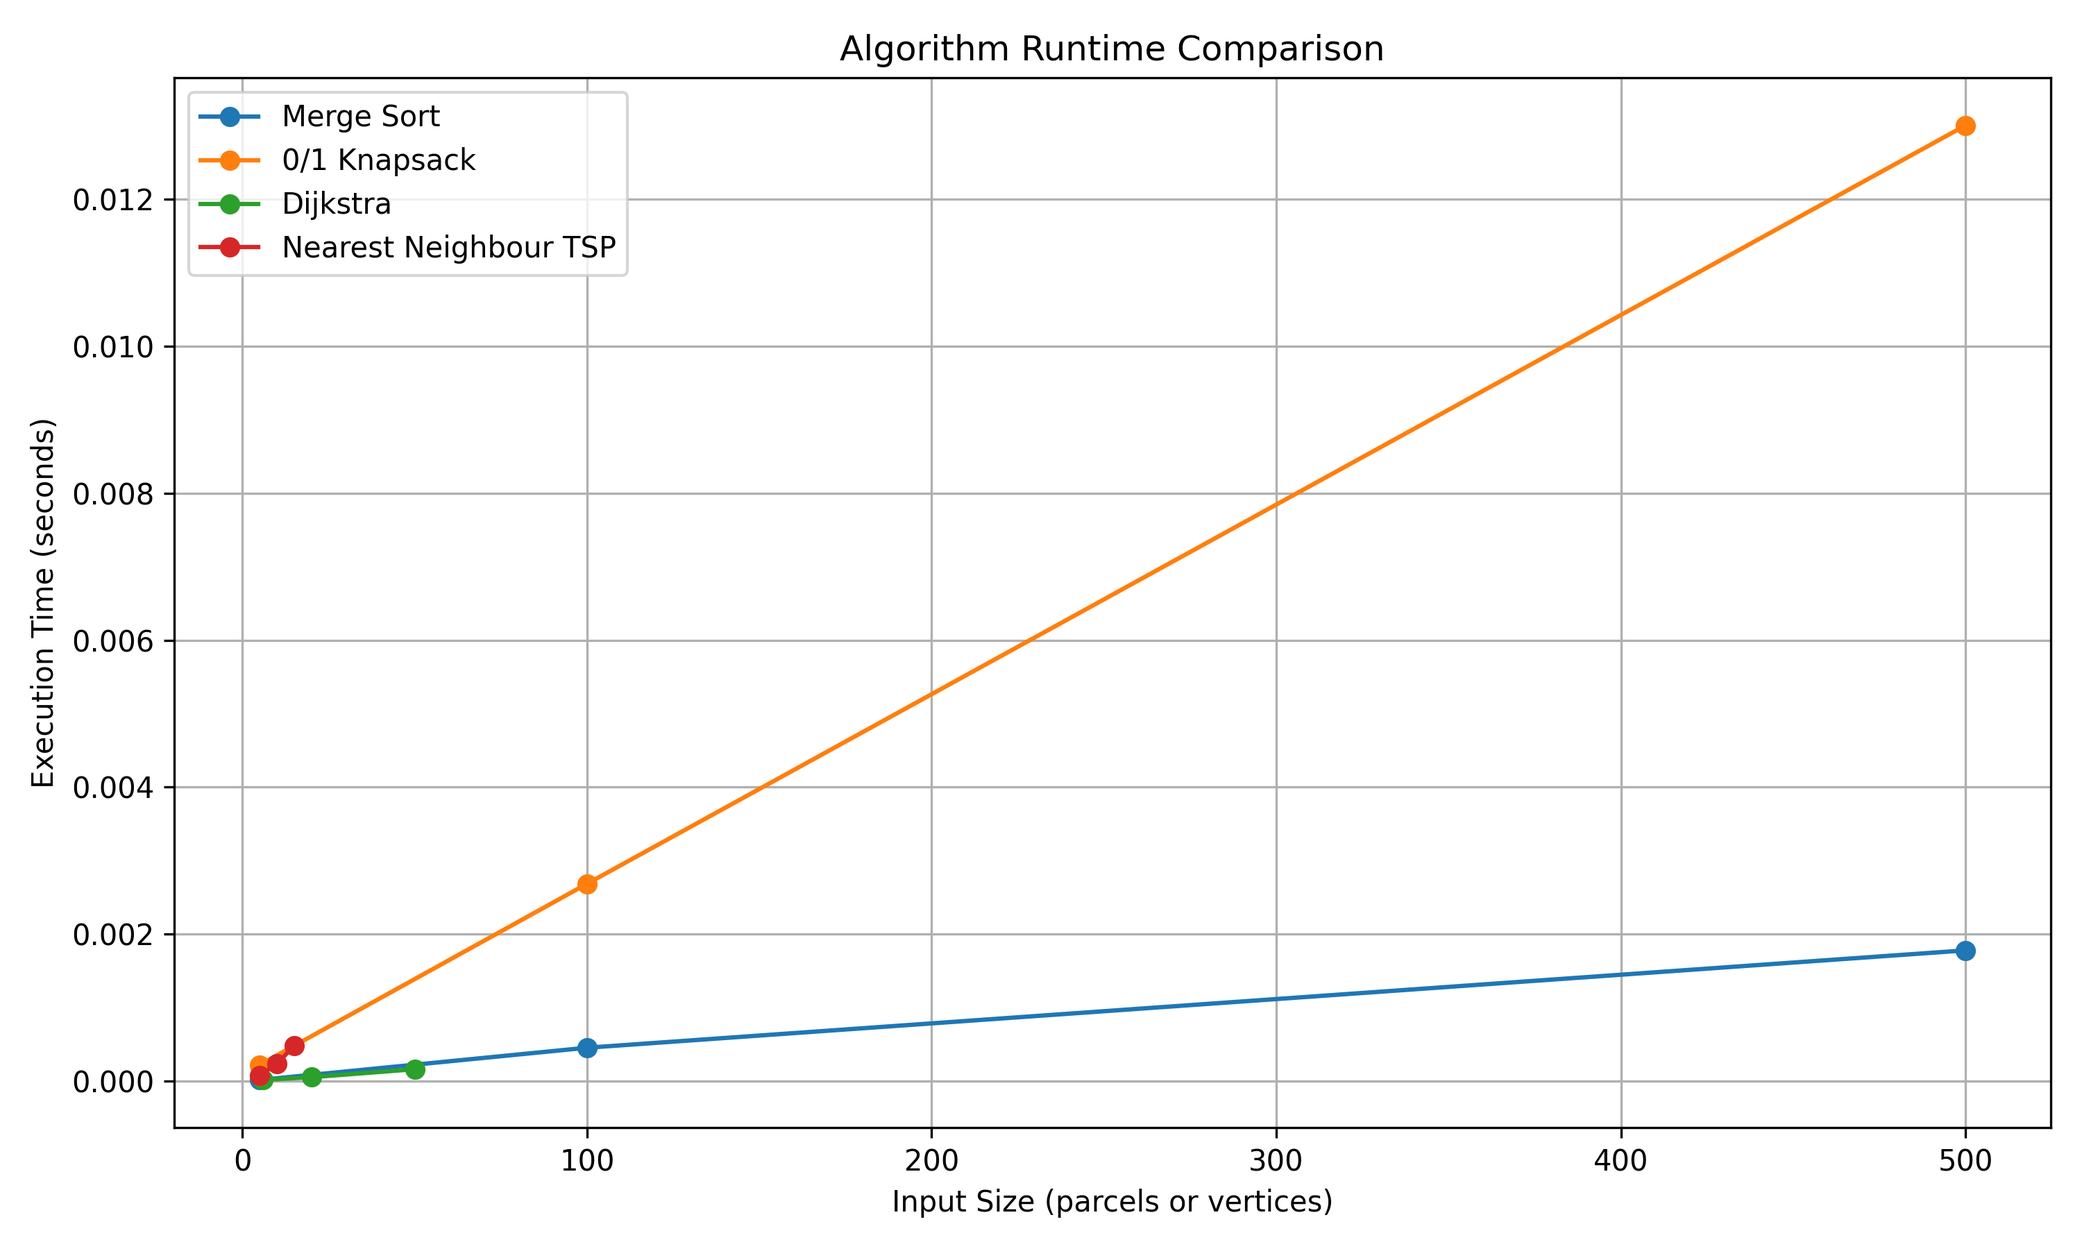
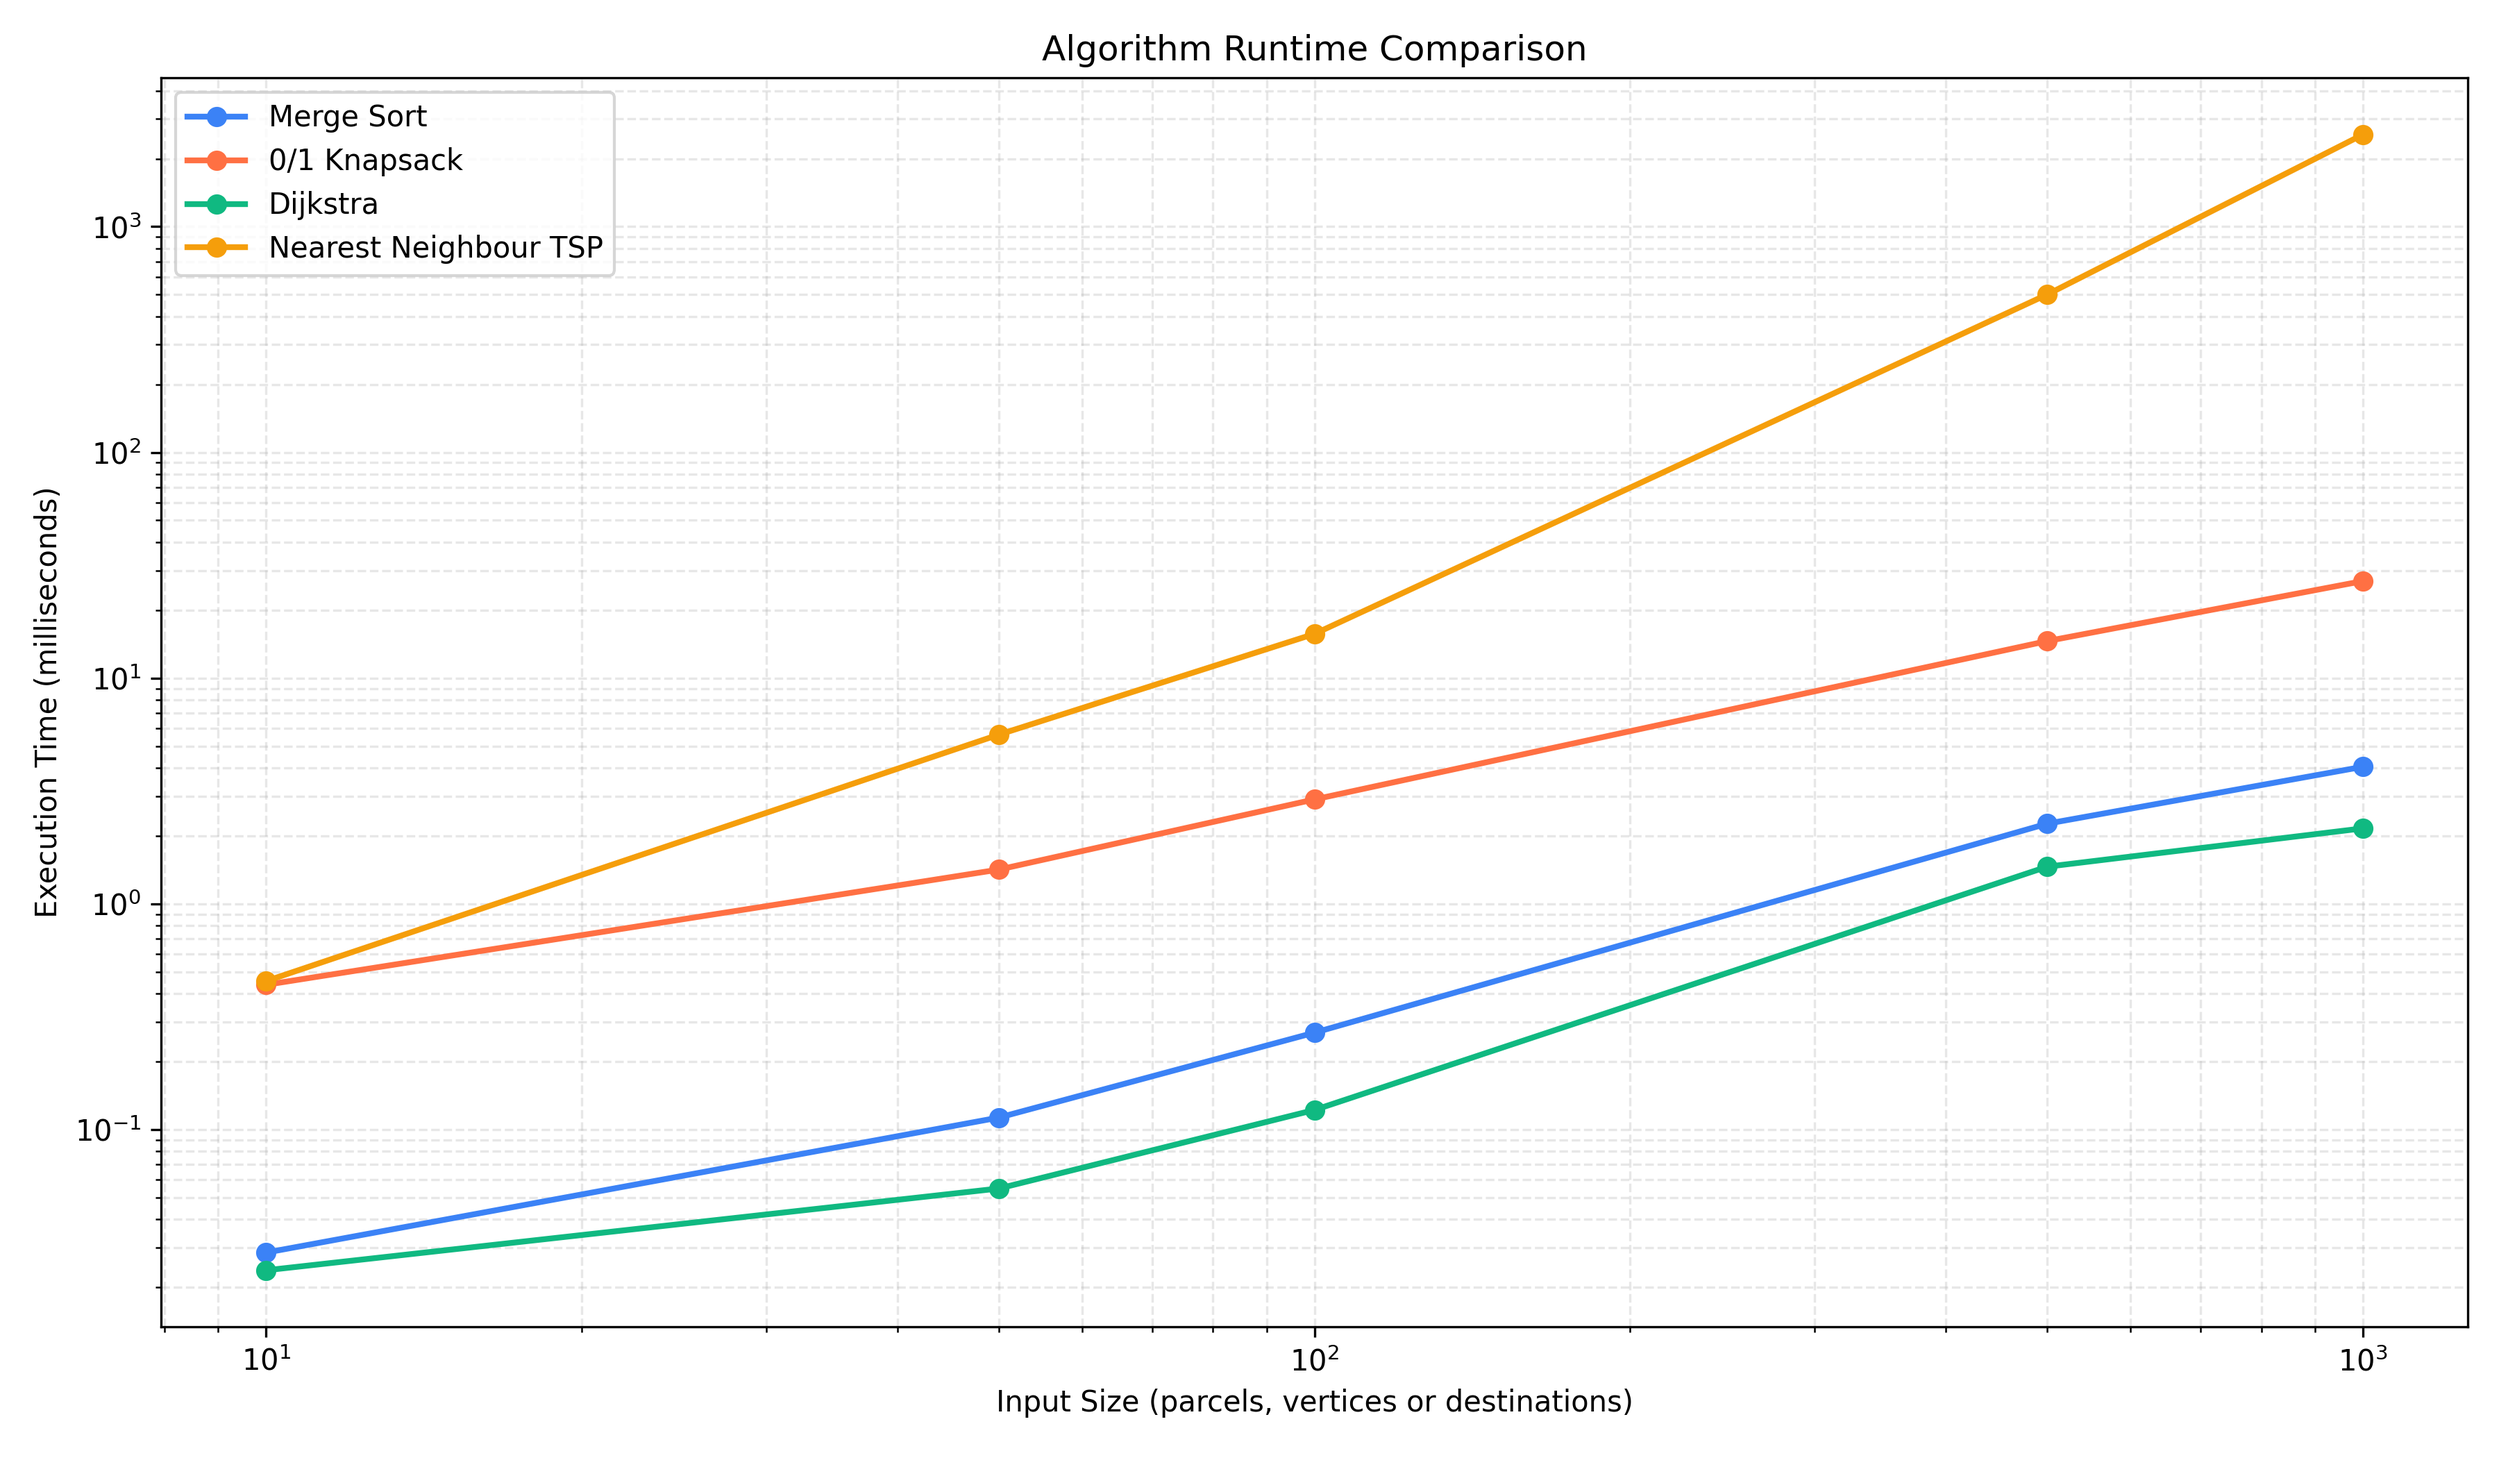
Improve algorithm performance benchmarking

diff --git a/performance.py b/performance.py
@@ -4,6 +4,7 @@ import random
 import time
 import statistics
 import json
+import shutil
 
 from pathlib import Path
 import matplotlib.pyplot as plt
@@ -19,53 +20,77 @@ BASE_DIR = Path(__file__).resolve().parent
 DATASET_DIR = BASE_DIR / "datasets"
 RESULTS_DIR = BASE_DIR / "results"
 
+DATASET_DIR.mkdir(exist_ok=True)
 RESULTS_DIR.mkdir(exist_ok=True)
 
-random.seed(42)
+
+# Benchmark configuration
+SIZES = [10, 50, 100, 500, 1000]
+REPEATS = 5
+SEED = 42
+KNAPSACK_CAPACITY = 100
 
 
-def generate_parcels(n):
+# Chart colours
+COLORS = {
+    "Merge Sort": "#3b82f6",
+    "0/1 Knapsack": "#ff7043",
+    "Dijkstra": "#10b981",
+    "Nearest Neighbour TSP": "#f59e0b"
+}
+
+
+def generate_parcels(n, rng):
+    """Generate reproducible parcel data."""
 
     parcels = []
 
     for i in range(n):
-        parcel = {
+        parcels.append({
             "parcel_id": f"P{i + 1}",
-            "destination": random.choice(["A", "B", "C", "D", "E"]),
-            "weight": random.randint(1, 10),
-            "priority": random.randint(1, 3),
-            "deadline": random.randint(1, 100),
-            "value": random.randint(10, 100)
-        }
-
-        parcels.append(parcel)
+            "destination": f"N{rng.randint(1, n)}",
+            "weight": rng.randint(1, 10),
+            "priority": rng.randint(1, 3),
+            "deadline": rng.randint(1, 100),
+            "value": rng.randint(10, 100)
+        })
 
     return parcels
 
 
+def generate_graph(n, rng):
+    """
+    Generate a connected, sparse, undirected graph.
 
-def generate_graph(n):
-    nodes = ["W"] + [f"N{i}" for i in range(1, n)]
+    W represents the warehouse.
+    N1...Nn represent delivery nodes.
+    Edge weights are illustrative.
+    """
+
+    nodes = ["W"] + [f"N{i}" for i in range(1, n + 1)]
 
     graph = {node: {} for node in nodes}
 
+    # Connect consecutive nodes to guarantee connectivity
     for i in range(len(nodes) - 1):
-        weight = random.randint(1, 20)
+        weight = rng.randint(1, 20)
 
         graph[nodes[i]][nodes[i + 1]] = weight
         graph[nodes[i + 1]][nodes[i]] = weight
 
+    # Add additional sparse connections
     for i in range(len(nodes)):
         for j in range(i + 2, len(nodes)):
-            if random.random() < 0.3:
-                weight = random.randint(1, 20)
+            if rng.random() < 0.003:
+                weight = rng.randint(1, 20)
 
                 graph[nodes[i]][nodes[j]] = weight
                 graph[nodes[j]][nodes[i]] = weight
 
     return graph
 
-def measure_time(function, repeats=3):
+
+def measure_time(function, repeats=REPEATS):
     """
     Measure execution time and return median runtime.
     """
@@ -73,7 +98,6 @@ def measure_time(function, repeats=3):
     times = []
 
     for _ in range(repeats):
-
         start = time.perf_counter()
         function()
         end = time.perf_counter()
@@ -93,13 +117,15 @@ def save_test_datasets():
         "large_dataset.json": 500
     }
 
+    rng = random.Random(SEED)
+
     for filename, size in datasets.items():
 
-        parcels = generate_parcels(size)
+        parcels = generate_parcels(size, rng)
 
         filepath = DATASET_DIR / filename
 
-        with open(filepath, "w") as file:
+        with open(filepath, "w", encoding="utf-8") as file:
             json.dump(parcels, file, indent=4)
 
         print(f"Generated {filename}: {size} parcels")
@@ -109,21 +135,28 @@ def run_performance_tests():
 
     results = []
 
+    print("\n========== PERFORMANCE TESTING ==========")
+    print("Input sizes:", SIZES)
+    print("Repetitions:", REPEATS)
+    print("Random seed:", SEED)
 
-    print("\nTesting Sorting and Knapsack...")
+    for size in SIZES:
 
-    parcel_sizes = [5, 100, 500]
+        print(f"\nTesting input size: {size}")
 
-    for size in parcel_sizes:
+        rng = random.Random(SEED + size)
 
-        parcels = generate_parcels(size)
+        # Generate inputs
+        parcels = generate_parcels(size, rng)
+        graph = generate_graph(size, rng)
 
+        destinations = [
+            f"N{i}" for i in range(1, size + 1)
+        ]
+
+        # 1. Merge Sort
         sorting_time = measure_time(
-            lambda: sort_parcels(parcels.copy())
-        )
-
-        knapsack_time = measure_time(
-            lambda: knapsack(parcels, 100)
+            lambda p=parcels: sort_parcels(p.copy())
         )
 
         results.append({
@@ -132,23 +165,20 @@ def run_performance_tests():
             "Runtime (seconds)": sorting_time
         })
 
+        # 2. 0/1 Knapsack
+        knapsack_time = measure_time(
+            lambda p=parcels: knapsack(p, KNAPSACK_CAPACITY)
+        )
+
         results.append({
             "Algorithm": "0/1 Knapsack",
             "Input Size": size,
             "Runtime (seconds)": knapsack_time
         })
 
-
-    print("Testing Dijkstra...")
-
-    graph_sizes = [6, 20, 50]
-
-    for size in graph_sizes:
-
-        graph = generate_graph(size)
-
+        # 3. Dijkstra
         dijkstra_time = measure_time(
-            lambda: dijkstra(graph, "W")
+            lambda g=graph: dijkstra(g, "W")
         )
 
         results.append({
@@ -157,23 +187,10 @@ def run_performance_tests():
             "Runtime (seconds)": dijkstra_time
         })
 
-
-
-    print("Testing Nearest Neighbour TSP...")
-
-    tsp_sizes = [5, 10, 15]
-
-    for size in tsp_sizes:
-
-        graph = generate_graph(size + 1)
-
-        destinations = [
-            f"N{i}" for i in range(1, size + 1)
-        ]
-
+        # 4. Nearest Neighbour TSP
         tsp_time = measure_time(
-            lambda: nearest_neighbour(
-                graph, "W", destinations
+            lambda g=graph, d=destinations: nearest_neighbour(
+                g, "W", d
             )
         )
 
@@ -182,6 +199,8 @@ def run_performance_tests():
             "Input Size": size,
             "Runtime (seconds)": tsp_time
         })
+
+        print("All four algorithms tested.")
 
     return results
 
@@ -193,7 +212,7 @@ def save_results(results):
 
     filepath = RESULTS_DIR / "runtime_results.csv"
 
-    with open(filepath, "w", newline="") as file:
+    with open(filepath, "w", newline="", encoding="utf-8") as file:
 
         writer = csv.DictWriter(
             file,
@@ -212,42 +231,60 @@ def save_results(results):
 
 def generate_runtime_chart(results):
     """
-    Generate runtime comparison chart.
+    Generate a log-log runtime comparison chart.
     """
 
-    algorithms = list(dict.fromkeys(
-        result["Algorithm"] for result in results
-    ))
+    algorithms = list(COLORS.keys())
 
-    plt.figure(figsize=(10, 6))
+    # Preserve the previous chart before replacing it
+    chart_path = RESULTS_DIR / "runtime_chart.png"
+
+    if chart_path.exists():
+        backup_path = RESULTS_DIR / "runtime_chart_previous.png"
+
+        shutil.copy2(chart_path, backup_path)
+
+        print("Previous chart backed up to:", backup_path)
+
+    plt.figure(figsize=(12, 7))
 
     for algorithm in algorithms:
 
         data = [
-            result for result in results
-            if result["Algorithm"] == algorithm
+            item for item in results
+            if item["Algorithm"] == algorithm
         ]
 
         sizes = [item["Input Size"] for item in data]
+
         runtimes = [
-            item["Runtime (seconds)"] for item in data
+            item["Runtime (seconds)"] * 1000
+            for item in data
         ]
 
-        plt.plot(
+        plt.loglog(
             sizes,
             runtimes,
             marker="o",
+            linewidth=2,
+            markersize=6,
+            color=COLORS[algorithm],
             label=algorithm
         )
 
-    plt.xlabel("Input Size (parcels or vertices)")
-    plt.ylabel("Execution Time (seconds)")
+    plt.xlabel("Input Size (parcels, vertices or destinations)")
+    plt.ylabel("Execution Time (milliseconds)")
     plt.title("Algorithm Runtime Comparison")
-    plt.legend()
-    plt.grid(True)
-    plt.tight_layout()
 
-    chart_path = RESULTS_DIR / "runtime_chart.png"
+    plt.grid(
+        True,
+        which="both",
+        linestyle="--",
+        alpha=0.3
+    )
+
+    plt.legend()
+    plt.tight_layout()
 
     plt.savefig(chart_path, dpi=300)
     plt.close()
@@ -257,7 +294,7 @@ def generate_runtime_chart(results):
 
 def main():
 
-    print("========== PERFORMANCE TESTING ==========")
+    print("\n========== PERFORMANCE TESTING ==========")
 
     # Generate datasets
     save_test_datasets()
@@ -265,10 +302,10 @@ def main():
     # Execute benchmarks
     results = run_performance_tests()
 
-    # Save results
+    # Save CSV results
     save_results(results)
 
-    # Generate chart
+    # Generate comparison chart
     generate_runtime_chart(results)
 
     print("\n========== PERFORMANCE TESTING COMPLETED ==========")
